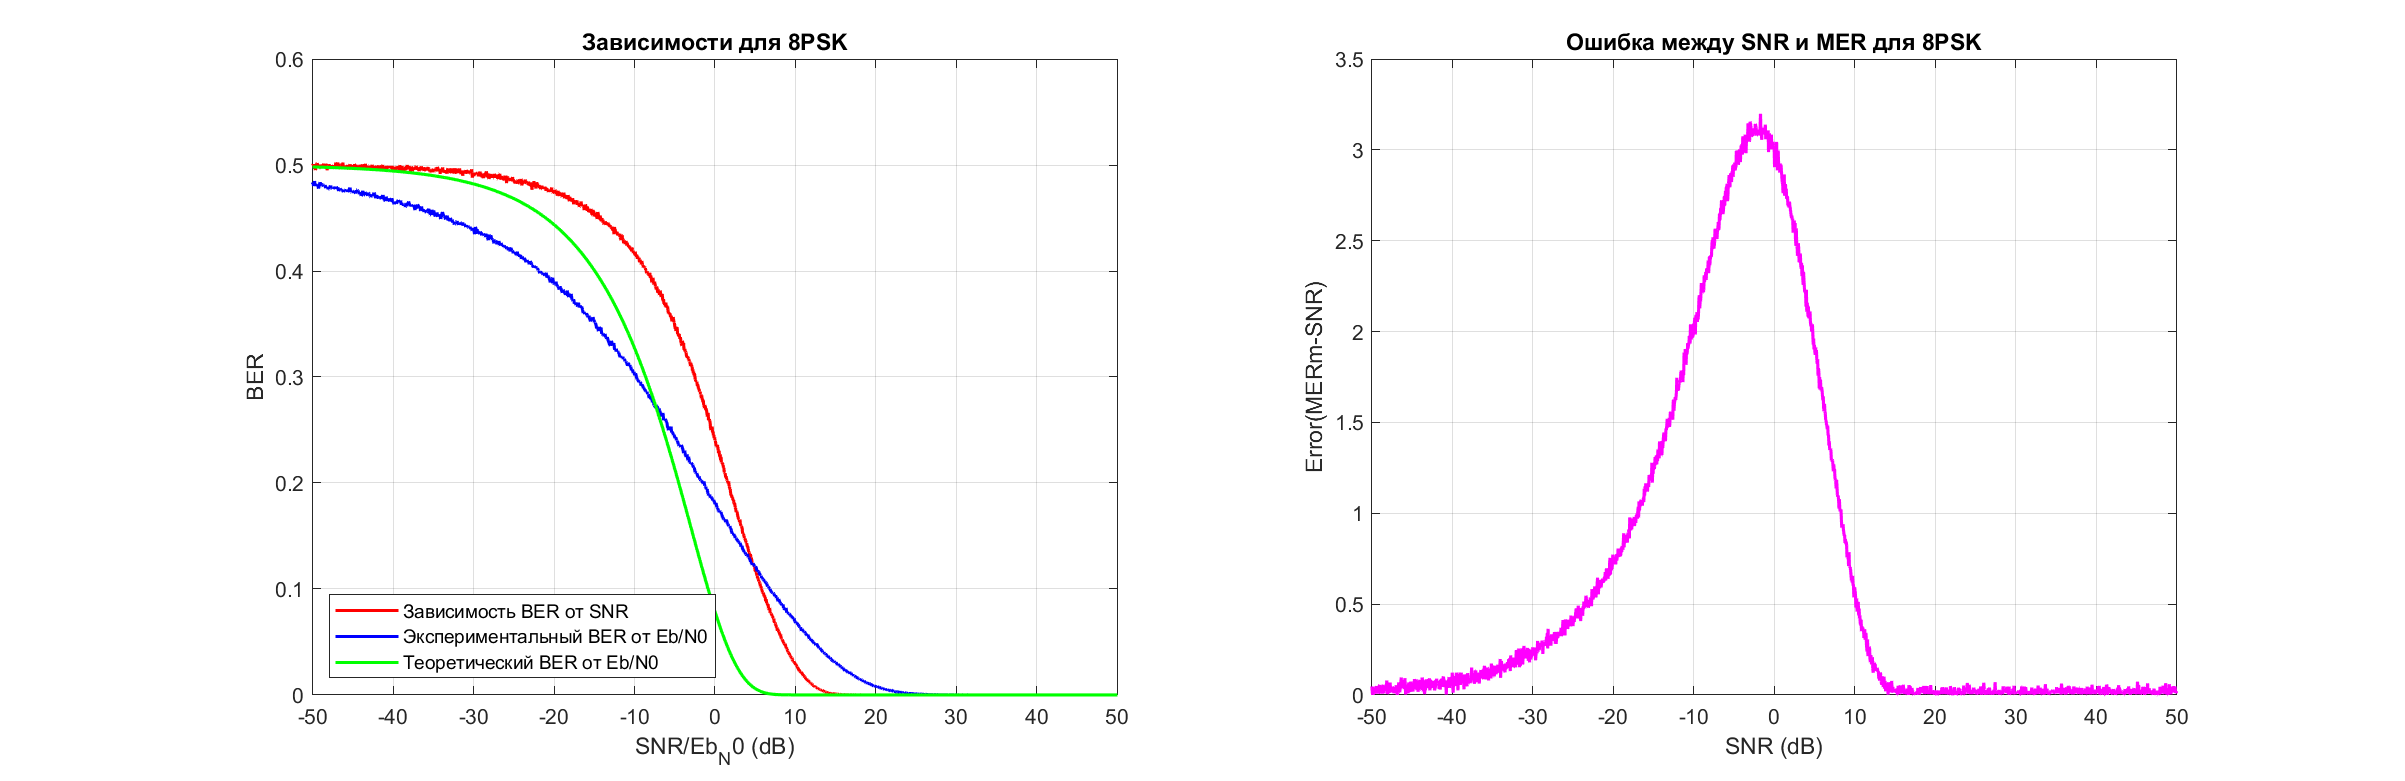
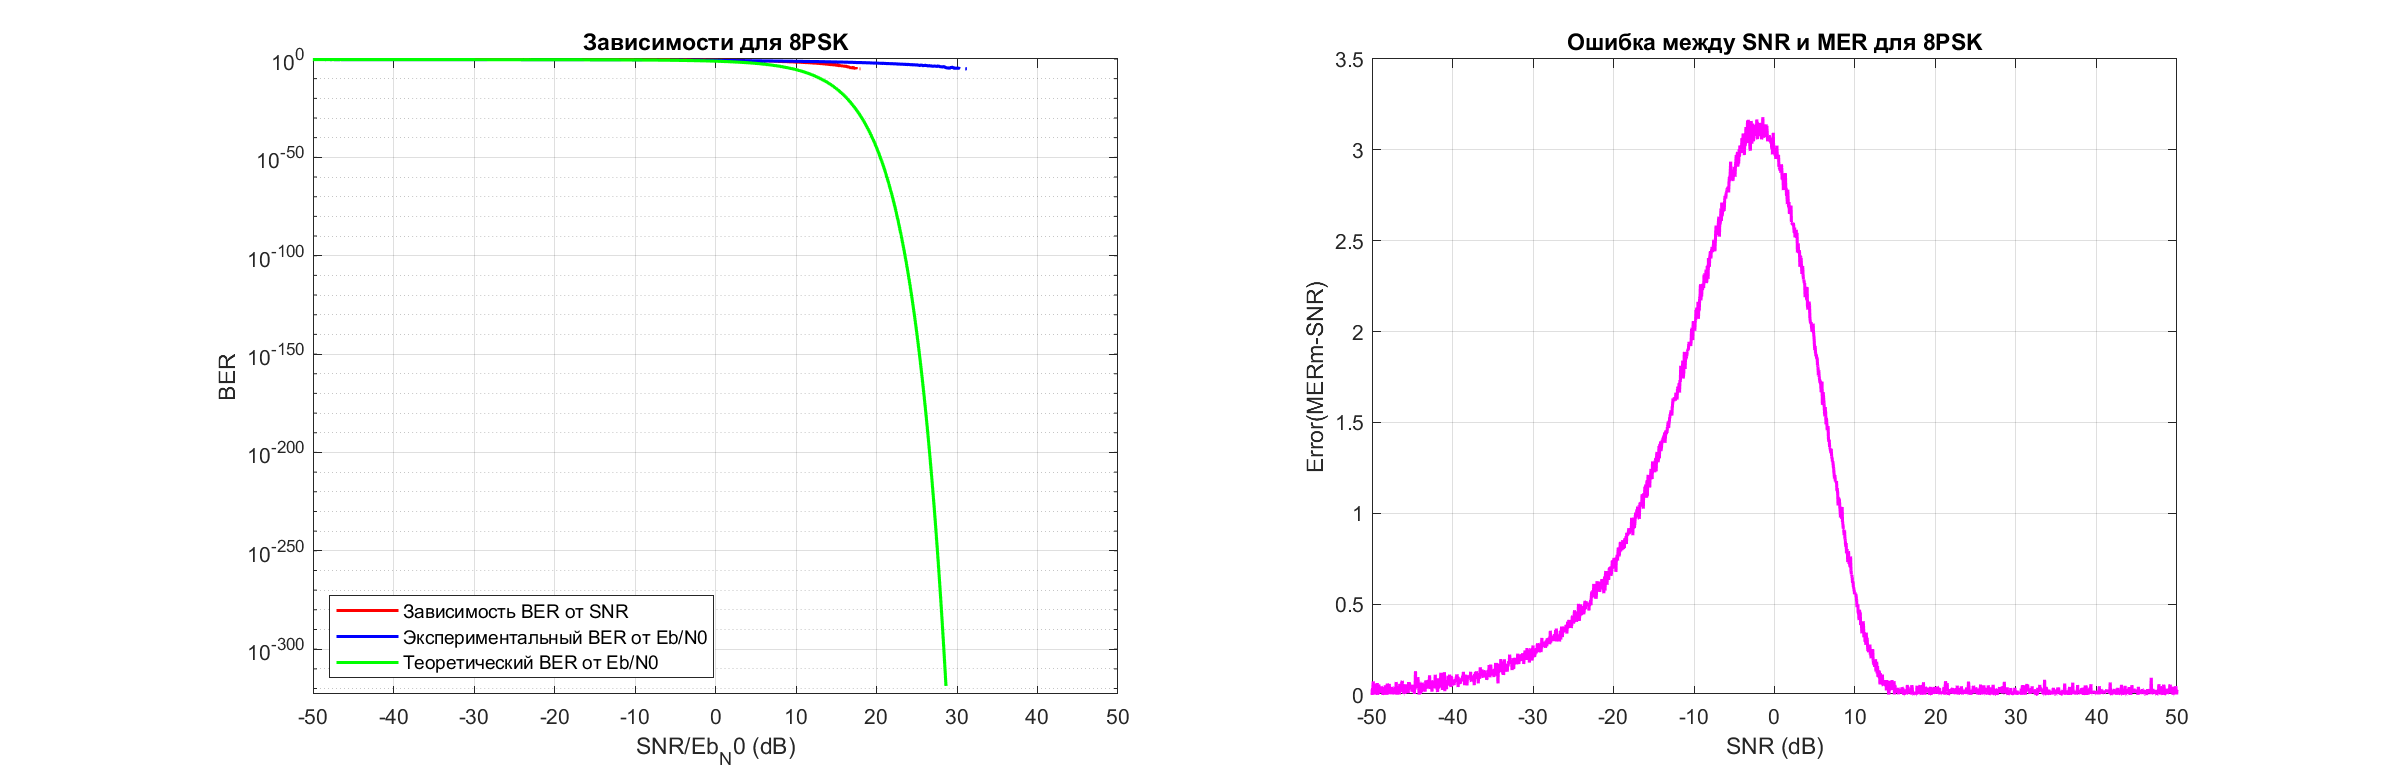
fixed graphs appearance

diff --git a/task5/Main_BER_SNR.m b/task5/Main_BER_SNR.m
@@ -66,8 +66,8 @@ for p = 1:length(constellations)
     figure('Position', [100 0 1720 500]);
     subplot(1, 2, 1);
     
-    lastNonZero = find(BERm ~= 0, 1, 'last');
-    BERm(lastNonZero+1:end) = 4.000000000000000e-323;
+    %lastNonZero = find(BERm ~= 0, 1, 'last');
+    %BERm(lastNonZero+1:end) = 4.000000000000000e-323;
 
     plot(SNR, BERm,'r','LineWidth',1.5);
     hold on;
@@ -76,13 +76,13 @@ for p = 1:length(constellations)
     EbN0_c = 10.^(EbN0/10);
     BERt = 1/2.*erfc(sqrt(EbN0_c));
     
-    lastNonZero = find(BERt ~= 0, 1, 'last');  
-    BERt(lastNonZero+1:end) = 4.000000000000000e-323;
+    %lastNonZero = find(BERt ~= 0, 1, 'last');  
+    %BERt(lastNonZero:end) = 4.000000000000000e-323;
     plot(EbN0, BERt,'g','LineWidth',1.5);
     hold on;
     legend('Зависимость BER от SNR','Экспериментальный BER от Eb/N0', ...
         'Теоретический BER от Eb/N0', 'Location','southwest');
-    %set(gca, 'YScale', 'log');
+    set(gca, 'YScale', 'log');
     title(['Зависимости для ' Constellation]);
     grid on;
     xlabel('SNR/Eb_N0 (dB)');
